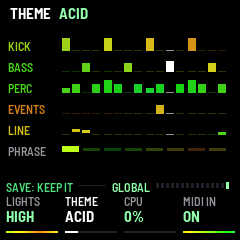
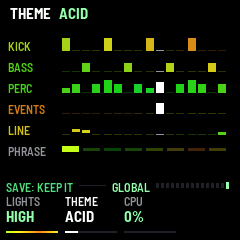
MIDI in always: GLOBAL's MIDI IN gone
GLOBAL's K4 turned MIDI in on and off, off by default: a keyboard or a DAW did nothing
till it was found. Now MIDI in is always taken (notes, the clock, start and stop); its
reading is a few bytes a pass, nothing when nothing comes. K4 on GLOBAL is none. The
flag (SET_MIDI) is kept in a save's flags for v1.0's saves, no longer read.

Manuals (GLOBAL, Saving, MIDI: a DAW's clock and start/stop followed, its sending off
if unwanted), README, the GLOBAL and theme shots. Tests: midi without the off check.

diff --git a/app/app.c b/app/app.c
@@ -38,10 +38,10 @@
  *                            track, its meter, its level and its send
  *  14 ECHO (FX)              K1..K4 Feedback, Tone, Time, Level (the return)
  *  15 GLOBAL (GLO)           K1..K2 Lights (the buttons' glow), Theme (the screen's colours and how they move: NEON,
- *                            ACID, INFRA, ICE, MONO); K3 shows the audio's load (CPU); K4 MIDI in
- *                            (off by default); SAVE here keeps it all (tapped: as it is let go); held 1.5 s, every
- *                            knob of every page back where it began (the world's own sound: the knobs move from it),
- *                            not kept until SAVE (SAVE lit); the world, the lights, the theme and MIDI stay
+ *                            ACID, INFRA, ICE, MONO); K3 shows the audio's load (CPU); K4 none; SAVE here keeps
+ *                            it all (tapped: as it is let go); held 1.5 s, every knob of every page back where it
+ *                            began (the world's own sound: the knobs move from it), not kept until SAVE (SAVE lit);
+ *                            the world, the lights and the theme stay
  * PRESETS: the world, from the next bar (the header's name changes, white a moment; no message over the BPM). PLAY:
  * play or rest. ALGORITHM: the type of the page's part (the bass's: a drop chooses another on its own); on GROOVE the bass's shape, on ECHO the echo's kind; on MAIN the kit (forward: one part or a few of
  * those heard another type as the next bar begins, more turns more parts, and the groove another shape for four
@@ -79,14 +79,14 @@ typedef struct {
     uint8_t world;
     uint8_t lights;                      /* the buttons' glow: 0 off, 1 low, 2 high */
     uint8_t theme;                       /* THEME (the screen's colours and their movement) */
-    uint8_t flags;                       /* SET_MIDI */
+    uint8_t flags;                       /* SET_MIDI (no longer read) */
     int16_t par[P_NPARAMS];
     uint8_t auto_len, auto_set;          /* AUTO PLAY's: 30, 60, 90 minutes, without end; its seed (0: a random one) */
     uint8_t auto_perf;                   /* its hands, how much (0..100) */
 } settings_t;
 static settings_t set;
-#define SET_MIDI 2u                      /* MIDI in: notes throw events, start / stop / clock followed */
-static void midi_off(void);
+#define SET_MIDI 2u                      /* v1.0's MIDI IN (GLOBAL's K4): MIDI in always on now; a save with it
+                                          * still read */
 static uint8_t set_dirty;                /* changed since the last save: SAVE is lit */
 #define NTHEME 5                         /* THEME's (the screen's): NEON, ACID, INFRA, ICE, MONO */
 static void theme_apply(void);
@@ -407,7 +407,7 @@ static uint32_t app_ms(void)
 static const char *knob_name(int page, int k)
 {
     if (page == PG_GLOBAL)
-        return k == 0 ? "LIGHTS" : k == 1 ? "THEME" : k == 2 ? "CPU" : "MIDI IN";
+        return k == 0 ? "LIGHTS" : k == 1 ? "THEME" : k == 2 ? "CPU" : "";
     if (page == PG_BUILD)
         return k == 0 ? "TYPE" : k == 1 ? "ENDING" : k == 2 ? "LENGTH" : "";
     if (page == PG_AUTO)
@@ -462,10 +462,6 @@ static void knob_value(int page, int k, char *t, int32_t *pos, int32_t *span)   
             str_put(t + k, 4, ps_shedding() ? "%!" : "%");   /* (!: lighter, the render was near its time) */
             *pos = (int32_t)(c > 100u ? 100u : c);
             *span = 100;
-        } else {
-            str_put(t, 12, set.flags & SET_MIDI ? "ON" : "OFF");
-            *pos = (set.flags & SET_MIDI) != 0;
-            *span = 1;
         }
         return;
     }
@@ -587,10 +583,6 @@ static void knob_turn(int k, int32_t d)
         else if (k == 1) {
             set.theme = (uint8_t)clamp(set.theme + d, 0, NTHEME - 1);
             theme_apply();
-        } else if (k == 3) {
-            set.flags = (uint8_t)(d > 0 ? set.flags | SET_MIDI : set.flags & ~SET_MIDI);
-            if (!(set.flags & SET_MIDI))
-                midi_off();
         } else
             return;
     } else if (page == PG_BUILD && k < 2) {   /* the builds' type (K1), their ending (K2): AUTO at the left */
@@ -831,7 +823,7 @@ static void key_up(int k)
 }
 
 /* ------------------------------------------------------------------- midi --- */
-/* MIDI in (optional: GLOBAL's MIDI IN, off by default), from USB and the TRS jack: a note throws an event as its key
+/* MIDI in (always), from USB and the TRS jack: a note throws an event as its key
  * would (folded by octaves into the keys' F3..G5); start, continue and stop play and rest (start from the top); a
  * clock's tempo is followed (its beats' length, smoothed) until the clock stops for half a second */
 static struct {
@@ -841,18 +833,6 @@ static struct {
     uint8_t clocks;
 } md;
 
-static void midi_off(void)
-{
-    uint32_t k;
-    for (k = 0; k < NKEYS; k++)
-        if (md.down >> k & 1u && !(ui.keys >> k & 1u))
-            ps_key((int)k, 0, 0);
-    md.down = 0;
-    md.clocks = 0;
-    md.beat_t24 = 0;
-    ps_ext_bpm(0.0f);
-}
-
 static void midi_poll(void)
 {
     uint32_t pkt;
@@ -860,8 +840,6 @@ static void midi_poll(void)
     int took = 0;
     while (took++ < 48 && plat_midi_in(&pkt, &port)) {   /* (at most 48 a pass: the rest wait, the queue keeps room) */
         uint32_t st = pkt >> 8 & 0xFFu, d1 = pkt >> 16 & 0x7Fu, d2 = pkt >> 24 & 0x7Fu;
-        if (!(set.flags & SET_MIDI))
-            continue;
         if (st == 0xF8u) {               /* a clock: 24 a beat */
 #ifdef PLAT_HOST
             uint32_t t = plat_ms() * 1000u * PLAT_TICKS_PER_US;   /* (the host's t24 is its real clock, not the script's) */

diff --git a/app/docs/MANUAL.md b/app/docs/MANUAL.md
@@ -450,7 +450,7 @@ repeats in the middle; TAPE wavers, darker and slightly driven; SMEAR blurs each
 
 ### 5.15 GLOBAL
 
-![The GLOBAL page: SAVE: KEEP IT and GLOBAL in the rule, Lights HIGH, Theme NEON, CPU 0%, MIDI IN ON](img/screen-global.png "GLOBAL, with changes not saved")
+![The GLOBAL page: SAVE: KEEP IT and GLOBAL in the rule, Lights HIGH, Theme NEON, CPU 0%](img/screen-global.png "GLOBAL, with changes not saved")
 
 GLO.
 
@@ -459,7 +459,6 @@ GLO.
 - CPU: how much of its time the audio is using, in percent. It is only a reading; the knob does nothing. If it says,
   for example, `83%!`, the music came close to what the FM-1 can compute, and it has made the sound a little simpler
   for a few seconds.
-- MIDI IN: ON or OFF. OFF. Turn right for ON (see 11. MIDI).
 
 The themes:
 
@@ -663,7 +662,7 @@ Every knob works inside the world, and none of them is moved by the choice. Eigh
 
 ## 10. Saving
 
-On GLOBAL, tap SAVE to keep everything: the world, every knob of every page, Lights, Theme and MIDI IN. They come back
+On GLOBAL, tap SAVE to keep everything: the world, every knob of every page, Lights and Theme. They come back
 the next time the FM-1 starts. While something is not saved, the rule there says `SAVE: KEEP IT` and SAVE stays lit, and the header says
 `SAVED` when it is done, or `SAVE FAILED` if it could not be. Elsewhere SAVE calls a break (see 8. Sections), so go to GLOBAL to save.
 
@@ -672,15 +671,15 @@ starts each time with the world's own sounds. If a newer version changes what is
 may come back with the defaults.
 
 **Back to the defaults.** On GLOBAL, hold SAVE for 1.5 seconds. Every knob of every page goes back to where it began
-(tempo and root to the world's own). The world, Lights, Theme and MIDI IN stay. The header says `DEFAULTS`. This is not kept until
+(tempo and root to the world's own). The world, Lights and Theme stay. The header says `DEFAULTS`. This is not kept until
 you tap SAVE.
 
 ---
 
 ## 11. MIDI
 
-MIDI in is optional: turn MIDI IN on GLOBAL on. It is OFF until you do. It listens on USB and the TRS jack, on any
-channel.
+MIDI in is always on. It listens on USB and the TRS jack, on any channel. With a DAW or another device connected, it
+follows the clock, start and stop that come from it too: turn off their sending if you don't want that.
 
 - Notes: a note throws the sound of the key it matches, as the key would (see 6. The keys), on every page: on ECHO
   too, where the notes throw sounds while the keys play the effects. The keys are F3 to G5 (MIDI

diff --git a/README.md b/README.md
@@ -25,7 +25,7 @@ it: back it up first.
 | LFO | LINE (Bite, Decay, Length, Drive); again: LINE SEQ (Density, Mutate, Range, Slide); again: ATMOS (Colour, Air, Motion, Depth). Held on LINE or LINE SEQ: the phrase is drawn anew |
 | EDIT | MIX: a part's Level, Send and Mute |
 | FX | ECHO (Feedback, Tone, Time, Level); the keys play the effects |
-| GLO | GLOBAL (Lights, Theme, CPU, MIDI in); SAVE here keeps everything, held: the defaults |
+| GLO | GLOBAL (Lights, Theme, CPU); SAVE here keeps everything, held: the defaults |
 | PRESETS | the world, from the next bar |
 | ALGORITHM | the type of the page's part (on MAIN: the kit; on ECHO: the kind of echo) |
 | K1..K4 | the four knobs of the page shown |

diff --git a/docs/autoplay-spec.ja.md b/docs/autoplay-spec.ja.md
@@ -112,7 +112,7 @@ SEQ ボタンを 3 回押すと開く（BREAK → BUILD → AUTO の順。ペー
 | 4 | 1 | `world` |
 | 5 | 1 | `lights` |
 | 6 | 1 | `theme` |
-| 7 | 1 | `flags`（`SET_MIDI` = 2 のみ） |
+| 7 | 1 | `flags`（`SET_MIDI` = 2 のみ。v1.0 の MIDI IN の名残で、今は読まない。MIDI 入力はいつも受ける） |
 | 8 | 110 | `par[55]`（`int16_t`） |
 | 118 | 1 | `auto_len` |
 | 119 | 1 | `auto_set` |
